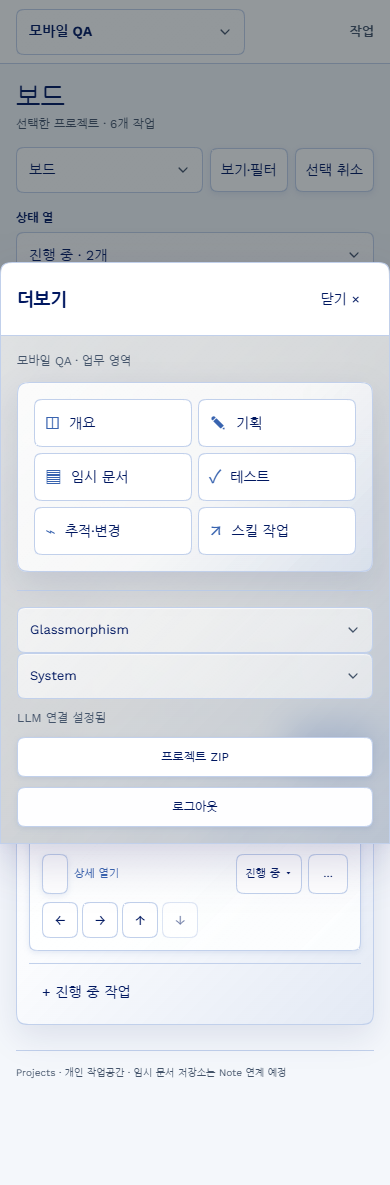
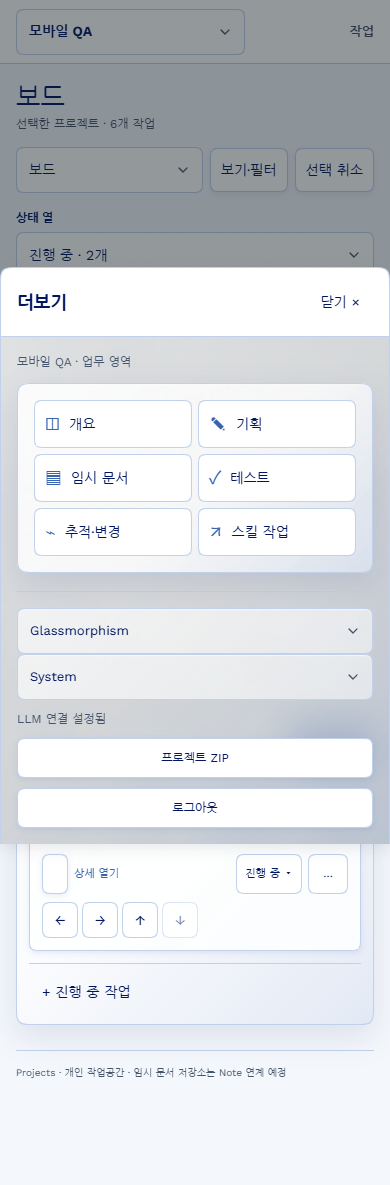
Improve mobile dialog placement and keyboard usability

diff --git a/web/src/mobile-experience.css b/web/src/mobile-experience.css
@@ -38,8 +38,18 @@
   .projects-theme .metrics,
   .projects-theme .task-metrics { grid-template-columns: repeat(2, minmax(0, 1fr)); }
   .projects-theme .footer-note { padding-bottom: 5px; }
-  :is(.projects-theme, [data-theme-portal]) .mobile-more-dialog { top: auto; bottom: 0; left: 0; width: 100%; max-width: none; max-height: min(86dvh, 800px); translate: none; transform: none; border-radius: var(--panel-radius) var(--panel-radius) 0 0; padding-bottom: env(safe-area-inset-bottom); }
-  :is(.projects-theme, [data-theme-portal]) .mobile-more-dialog .modal-body { max-height: calc(86dvh - 75px - env(safe-area-inset-bottom)); }
+  :is(.projects-theme, [data-theme-portal]) .projects-dialog { display: flex; flex-direction: column; top: var(--dialog-visible-top, 0px); left: var(--dialog-visible-left, 0px); width: var(--dialog-visible-width, 100vw); height: var(--dialog-visible-height, 100dvh); max-width: none; max-height: none; padding: 0; overflow: hidden; border: 0; border-radius: 0; translate: none; transform: none; }
+  :is(.projects-theme, [data-theme-portal]) .projects-dialog .modal-head { flex: 0 0 auto; padding: calc(12px + env(safe-area-inset-top)) 16px 12px; }
+  :is(.projects-theme, [data-theme-portal]) .projects-dialog .modal-head button { min-width: 44px; min-height: 44px; }
+  :is(.projects-theme, [data-theme-portal]) .projects-dialog .modal-body { flex: 1 1 auto; min-height: 0; max-height: none; overflow-y: auto; overscroll-behavior: contain; padding: 16px 16px calc(16px + env(safe-area-inset-bottom)); }
+  :is(.projects-theme, [data-theme-portal]) .projects-dialog .modal-body > form:only-child { display: flex; flex-direction: column; min-height: 100%; }
+  :is(.projects-theme, [data-theme-portal]) .projects-dialog .modal-body > form > .form-actions:last-child { position: sticky; bottom: calc(-16px - env(safe-area-inset-bottom)); z-index: 1; margin: 20px -16px calc(-16px - env(safe-area-inset-bottom)); padding: 12px 16px calc(12px + env(safe-area-inset-bottom)); border-top: 1px solid var(--border); background: var(--surface); }
+  :is(.projects-theme, [data-theme-portal]) .projects-dialog .modal-body > form:only-child > .form-actions:last-child { margin-top: auto; }
+  :is(.projects-theme, [data-theme-portal]) .mobile-more-dialog,
+  :is(.projects-theme, [data-theme-portal]) .mobile-task-dialog { top: auto; bottom: var(--dialog-visible-bottom, 0px); height: auto; border: 1px solid var(--border); border-bottom: 0; border-radius: var(--panel-radius) var(--panel-radius) 0 0; box-shadow: var(--shadow-float); }
+  :is(.projects-theme, [data-theme-portal]) .mobile-more-dialog { max-height: min(calc(var(--dialog-visible-height, 100dvh) * .86), 800px); }
+  :is(.projects-theme, [data-theme-portal]) .mobile-more-dialog .modal-body,
+  :is(.projects-theme, [data-theme-portal]) .mobile-task-dialog .modal-body { flex: 0 1 auto; }
   :is(.projects-theme, [data-theme-portal]) .mobile-more-links { display: grid; grid-template-columns: repeat(2, minmax(0, 1fr)); gap: 6px; margin: 12px 0 18px; }
   :is(.projects-theme, [data-theme-portal]) .mobile-more-link { display: flex; min-height: 48px; align-items: center; gap: 9px; padding: 10px; border: 1px solid var(--border); color: var(--foreground); background: var(--surface); }
   :is(.projects-theme, [data-theme-portal]) .mobile-more-link span { color: var(--accent); font-size: 18px; }
@@ -108,13 +118,13 @@
   .projects-theme .mobile-selection-bar button { min-height: 44px; }
   .projects-theme .task-workspace.has-task-selection .mobile-selection-bar,
   .projects-theme .workspace-body:has(input:focus, textarea:focus) .mobile-selection-bar { display: none; }
-  :is(.projects-theme, [data-theme-portal]) .mobile-task-dialog { top: auto; bottom: 0; left: 0; width: 100%; max-width: none; max-height: min(88dvh, 850px); translate: none; transform: none; border-radius: var(--panel-radius) var(--panel-radius) 0 0; padding-bottom: env(safe-area-inset-bottom); }
-  :is(.projects-theme, [data-theme-portal]) .mobile-task-dialog .modal-body { max-height: calc(88dvh - 75px - env(safe-area-inset-bottom)); }
+  :is(.projects-theme, [data-theme-portal]) .mobile-task-dialog { max-height: min(calc(var(--dialog-visible-height, 100dvh) * .88), 850px); }
   :is(.projects-theme, [data-theme-portal]) .mobile-task-sheet-fields { display: grid; gap: 12px; }
   :is(.projects-theme, [data-theme-portal]) .mobile-saved-view-actions { display: grid; gap: 9px; padding: 12px 0; border-block: 1px solid var(--border); }
   :is(.projects-theme, [data-theme-portal]) .mobile-saved-view-actions .task-default-view { display: flex; align-items: center; gap: 8px; min-height: 44px; }
   :is(.projects-theme, [data-theme-portal]) .mobile-task-sheet-fields .field { margin: 0; }
   :is(.projects-theme, [data-theme-portal]) .mobile-task-sheet-fields button { min-height: 44px; }
+  :is(.projects-theme, [data-theme-portal]) .mobile-task-dialog .mobile-task-sheet-fields > .primary:last-child { position: sticky; bottom: 0; z-index: 1; background: var(--accent); }
   .projects-theme .mobile-board-picker { display: grid; gap: 5px; margin: 0 0 12px; }
   .projects-theme .mobile-board-picker label { font-size: 12px; font-weight: 700; }
   .projects-theme .mobile-board-picker select { width: 100%; min-height: 44px; }

diff --git a/web/src/ui.tsx b/web/src/ui.tsx
@@ -1,5 +1,5 @@
-import { cloneElement, lazy, Suspense } from "react";
-import type { ReactElement, ReactNode } from "react";
+import { cloneElement, lazy, Suspense, useEffect, useState } from "react";
+import type { CSSProperties, ReactElement, ReactNode } from "react";
 import { statusLabels } from "./models";
 import { navigate, routeUrl } from "./hooks";
 import type { Route } from "./hooks";
@@ -75,8 +75,30 @@ export function RouteLink({ patch, children, className = "", current, appearance
 export function Modal({ title, children, onClose, wide = false, className = "" }: {
     title: string; children: ReactNode; onClose: () => void; wide?: boolean; className?: string;
 }) {
+    const [viewport, setViewport] = useState(readVisibleViewport);
+    const [returnFocus] = useState<HTMLElement | null>(() => typeof document !== "undefined" && document.activeElement instanceof HTMLElement ? document.activeElement : null);
+    useEffect(() => {
+        const visual = window.visualViewport;
+        const update = () => setViewport(readVisibleViewport());
+        window.addEventListener("resize", update);
+        visual?.addEventListener("resize", update);
+        visual?.addEventListener("scroll", update);
+        return () => {
+            window.removeEventListener("resize", update);
+            visual?.removeEventListener("resize", update);
+            visual?.removeEventListener("scroll", update);
+        };
+    }, []);
+    const viewportStyle = {
+        "--dialog-visible-top": `${viewport.top}px`,
+        "--dialog-visible-left": `${viewport.left}px`,
+        "--dialog-visible-width": `${viewport.width}px`,
+        "--dialog-visible-height": `${viewport.height}px`,
+        "--dialog-visible-bottom": `${viewport.bottom}px`,
+    } as CSSProperties;
     return <Dialog open onOpenChange={open => { if (!open) onClose(); }}>
-        <DialogContent size={wide ? "wide" : "default"} className={`projects-dialog ${className}`}>
+        <DialogContent size={wide ? "wide" : "default"} className={`projects-dialog ${className}`} style={viewportStyle}
+            onCloseAutoFocus={event => { if (returnFocus?.isConnected) { event.preventDefault(); returnFocus.focus(); } }}>
             <DialogHeader className="modal-head"><DialogTitle>{title}</DialogTitle>
                 <Button variant="ghost" className="plain" aria-label="대화상자 닫기" onClick={onClose}>닫기 ×</Button>
             </DialogHeader>
@@ -84,6 +106,15 @@ export function Modal({ title, children, onClose, wide = false, className = "" }
             <div className="modal-body">{children}</div>
         </DialogContent>
     </Dialog>;
+}
+function readVisibleViewport() {
+    if (typeof window === "undefined") return { top: 0, left: 0, width: 0, height: 0, bottom: 0 };
+    const visual = window.visualViewport;
+    const top = visual?.offsetTop ?? 0;
+    const left = visual?.offsetLeft ?? 0;
+    const width = visual?.width ?? window.innerWidth;
+    const height = visual?.height ?? window.innerHeight;
+    return { top, left, width, height, bottom: Math.max(0, window.innerHeight - top - height) };
 }
 export function safeMarkdownUrl(value: string): string {
     if (value.startsWith("#")) return value;

diff --git a/web/src/workspace-refresh.css b/web/src/workspace-refresh.css
@@ -163,6 +163,4 @@
   .projects-theme .workspace-collection .doc-item { flex: 0 0 210px; white-space: normal; }
   .projects-theme .workspace-detail { min-height: 240px; }
   .projects-theme .workspace-detail > div { padding: 18px; }
-  :is(.projects-theme, [data-theme-portal]) .projects-dialog .modal-head { padding: 16px; }
-  :is(.projects-theme, [data-theme-portal]) .projects-dialog .modal-body { padding: 16px; }
 }

diff --git a/docs/planning/14-mobile-experience.md b/docs/planning/14-mobile-experience.md
@@ -46,6 +46,22 @@
 - **레이어와 포커스:** 메뉴·필터·추가·일괄 변경은 현재 화면 위 한 개의 sheet/dialog만 연다. 닫기/취소/뒤로/Escape의 의미와 원래 버튼으로의 포커스 복귀를 일치시킨다. 브라우저/OS 뒤로는 상세→목록, sheet→기존 화면 순으로 동작한다.
 - **가독성·접근성:** 터치 주요 버튼은 44~48 CSS px을 설계 목표로 하고, 작은 보조 컨트롤도 [WCAG 2.2 2.5.8](https://www.w3.org/WAI/WCAG22/Understanding/target-size-minimum)의 24px 또는 충분한 간격 기준을 검증한다. 320 CSS px에서 본문과 주요 조작의 두 방향 스크롤을 피한다([WCAG 1.4.10](https://www.w3.org/WAI/WCAG22/Understanding/reflow.html)). 표/보드처럼 공간 구조가 필요한 곳은 **영역 내부** 스크롤과 명시적 대체 보기·조작을 제공한다. 브라우저 확대, 긴 한국어·영어 URL, 키보드 표시, 하단 안전 영역, 가로 방향, 축소된 동작 설정을 검증한다.
 
+### 2026-10-25 모달 사용성 보완
+
+짧은 작업 입력·필터·더보기는 하단 시트로 유지하고, 프로젝트 생성·Git 소스
+가져오기·아이디어/문서 등 긴 폼은 모바일 전체 화면 dialog로 연다. 전체 화면
+dialog는 제목·닫기를 상단에 고정하고 본문만 스크롤한다. 한 개 폼의 저장/취소
+행은 화면 하단에 두며 긴 폼에서도 스크롤 중 접근할 수 있게 한다. 시트의
+`추가`·`결과 보기` 버튼도 작은 가시 영역에서 접근 가능해야 한다.
+
+위치는 레이아웃 viewport가 아닌 `visualViewport`의 현재 상단·폭·높이·하단을
+사용한다. OS 키보드·확대·스크롤로 보이는 영역이 바뀌면 열린 dialog를
+재배치하고, 안전 영역을 본문 하단 여백에 반영한다. 닫기·Escape 이후에는
+열었던 버튼으로 초점을 돌린다. 320×568·390×844·667×375 및 키보드로
+가시 높이가 300/200 CSS px로 줄어드는 상태에서 제목·닫기·주요 행동이
+가려지지 않아야 한다. 실제 iOS/Android OS 키보드·안전 영역은 물리 기기에서
+후속 확인한다.
+
 ## 표현과 공통 UI 인계
 
 기존 pydemia identity, Glassmorphism 기본값, 21개 UI 모드와 light/dark/System, 승인 favicon을 유지한다. 같은 역할의 작업 행은 같은 여백·구분선·타이포를 쓴다. 상태·마감 지남·선택은 글자와 아이콘/배지로도 구별한다. 개별 행은 필요할 때만 경계를 갖고, 한 업무 영역 전체의 면·행마다의 테두리·다시 내부 카드 테두리를 반복하지 않는다. sheet는 주변 화면과 겹치는 독립 영역이므로 명확한 표면·포커스 경계를 가진다. 기존 활성 탐색 행은 면·굵기·`aria-current`로 표시하고 장식용 왼쪽 강조 줄을 추가하지 않는다.

diff --git a/docs/implementation/verification.md b/docs/implementation/verification.md
@@ -2,6 +2,30 @@
 
 2026-10-21 · Windows / Python 3.12.14 / Node 24.21.0 / PostgreSQL 17.11
 
+## 2026-10-25 모바일 모달·키보드 사용성 보완
+
+사용자 제보에 따라 공통 Dialog의 모바일 위치와 스크롤 소유권을 다시 검사했다.
+기존 320×568 프로젝트 생성은 528px 높이의 가운데 모달이었고, 작업·더보기
+시트는 레이아웃 viewport 하단에 고정되어 가상 키보드가 보이는 영역을 줄일
+때 버튼이 가려질 수 있었다. 일반 긴 폼은 모바일 전체 화면, 짧은 작업·더보기는
+하단 시트로 표시하도록 조정했다. `visualViewport` resize/scroll에서 가시
+영역의 상단·폭·높이·하단을 반영하고, 폼 저장 행과 짧은 시트의 주요 행동은
+스크롤 중 접근 가능하게 했다. 닫기 후 원래 버튼으로 초점이 돌아오는지
+확인했다. 공통 `pydemia-ui/Dialog`를 계속 사용한다.
+
+| 검증 층위 | 결과 |
+|---|---|
+| 모바일 브라우저 mock | Edge 모바일 에뮬레이션에서 390×844·320×568·667×375의 프로젝트 생성, Git ZIP, 아이디어 긴 폼, 더보기, 작업 추가 모달을 열고 가시 영역 밖으로 벗어나지 않는지 검사. 320×568에서 `visualViewport.height`를 300/200px, `offsetTop`을 30px로 모사해 헤더·확인 버튼 위치와 초점 복귀를 검증. 실제 OS 키보드 조작은 아님. |
+| 실제 앱·PostgreSQL | 무작위 전용 schema를 만드는 `scripts/verify-mobile-browser.py`를 실행해 작업 추가·필터·일괄 변경·더보기 시트의 실제 API 흐름과 위치, Today/Inbox/보드·문서 초안, 320~430px 넘침, 데스크톱·테마·favicon을 확인. 테스트 schema만 정리. |
+| 회귀·정적 검사 | `docker compose up -d db`, `uv run projects migrate`, 전체 `uv run pytest -q` 196개, Ruff check/format, mypy, `npm --prefix web run check` 46개, 웹 빌드·favicon 검사 통과. |
+
+시각 근거: [프로젝트 만들기 320px](screenshots/mobile-dialogs/project-create-320.png),
+[긴 아이디어 폼 하단 320px](screenshots/mobile-dialogs/idea-create-bottom-320.png),
+[작업 추가 시트 320px](screenshots/mobile-dialogs/task-add-320.png),
+[더보기 시트 390px](screenshots/mobile-experience/more-390.png).
+물리 기기의 iOS/Android 키보드, 노치·안전 영역과 확대 동작은 이번 브라우저
+모사로 판정하지 않았다. 운영 배포도 이번 변경에 포함하지 않았다.
+
 ## 2026-10-25 Git ZIP 생성·백업 복원 문구
 
 APP-REQ-035~036·AC-65~68의 로컬 변경을 검사했다. 프로젝트 목록은
